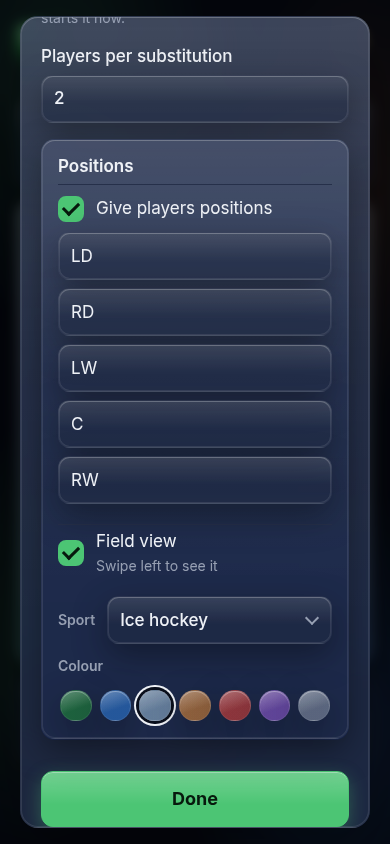
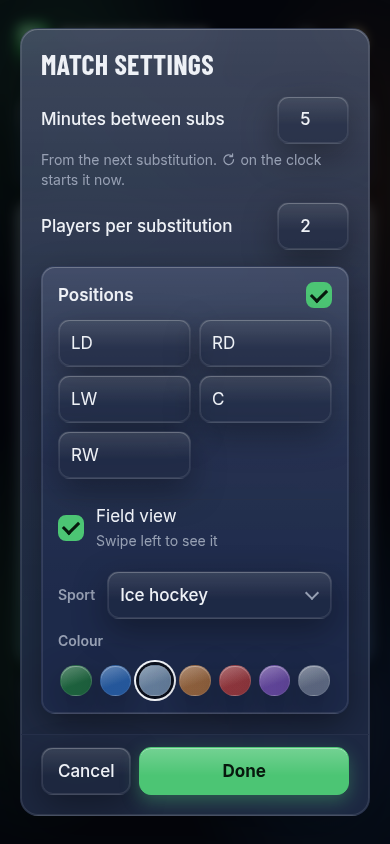
Shorter settings, no gap under the field, popups above the keyboard
- Android shrinks the page above the keyboard, so popups with a text box stay in view
- The swipe box only moves sideways (it could slide up and down, leaving a gap under the field)
- Match settings: number settings on one line, Positions box on its heading, position names two to a row when short, Cancel next to Done and always in view; Cancel undoes the changes
- Setup: same compact number rows, goalkeeper and starter names two to a row when short
- The clock's own restart icon in the note; shorter field view hint in setup

diff --git a/index.html b/index.html
@@ -2,7 +2,7 @@
 <html lang="en">
 <head>
   <meta charset="utf-8">
-  <meta name="viewport" content="width=device-width, initial-scale=1, viewport-fit=cover">
+  <meta name="viewport" content="width=device-width, initial-scale=1, viewport-fit=cover, interactive-widget=resizes-content">
   <meta name="theme-color" content="#f1eee8">
   <title>Substitutor – fair substitutions in kids’ sports</title>
   <meta name="description" content="Free app for coaches: a countdown to the next substitution, who goes off and who comes on, positions and a field view, so every kid gets fair playing time. Football, bandy, handball, ice hockey, floorball and futsal. Works offline on any phone.">
@@ -52,11 +52,13 @@
         const w = vv ? vv.width * vv.scale : innerWidth; // the window's real size, whatever the page's width
         const h = vv ? vv.height * vv.scale : innerHeight;
         const scale = Math.min(w, h) >= 700 ? Math.min(1.15, h / 844) : 1;
-        const content = scale > 1.01 ? `width=${Math.round(w / scale)}, viewport-fit=cover` : 'width=device-width, initial-scale=1, viewport-fit=cover';
+        // resizes-content: on Android the page shrinks above the keyboard, so popups stay in view
+        const content = (scale > 1.01 ? `width=${Math.round(w / scale)}, viewport-fit=cover` : 'width=device-width, initial-scale=1, viewport-fit=cover') + ', interactive-widget=resizes-content';
         if (meta.content !== content) meta.content = content;
       };
       fit();
-      addEventListener('resize', fit); // turning the tablet, or split screen
+      // turning the tablet, or split screen; not while typing, or the keyboard would change the size
+      addEventListener('resize', () => { if (!document.activeElement?.matches('input, textarea')) fit(); });
     })();
   </script>
   <script type="module" src="./js/app.js"></script>
@@ -108,7 +110,7 @@
     <!-- Screen 2: match setup -->
     <section id="screen-setup" class="screen" hidden>
       <h2 data-t>Match setup</h2>
-      <label class="field"><span data-t>Players on the field (including goalkeeper)</span>
+      <label class="field inline"><span data-t>Players on the field (including goalkeeper)</span>
         <input id="field-size" type="number" min="2" max="11" inputmode="numeric">
       </label>
       <fieldset>
@@ -121,20 +123,17 @@
       </fieldset>
       <p id="starter-note" class="note small" hidden></p>
       <fieldset>
-        <legend data-t>Positions</legend>
-        <div class="choices">
-          <label><input id="use-positions" type="checkbox"> <span data-t>Give players positions</span></label>
-        </div>
+        <legend class="choices toggle"><label><span data-t>Positions</span><input id="use-positions" type="checkbox" aria-label="Give players positions" data-t-label></label></legend>
         <div id="position-list" class="positions"></div>
         <div id="field-view-option" class="choices" hidden>
-          <label><input id="use-field-view" type="checkbox"> <span><span data-t>Field view</span><span class="sub" data-t>Swipe left during the match to see it</span></span></label>
+          <label><input id="use-field-view" type="checkbox"> <span><span data-t>Field view</span><span class="sub" data-t>Swipe left</span></span></label>
         </div>
         <div id="field-style" class="field-style" hidden></div>
       </fieldset>
-      <label class="field"><span data-t>Minutes between substitutions</span>
+      <label class="field inline"><span data-t>Minutes between substitutions</span>
         <input id="interval" type="number" min="1" max="60" step="0.5" inputmode="decimal">
       </label>
-      <label class="field"><span data-t>Players per substitution</span>
+      <label class="field inline"><span data-t>Players per substitution</span>
         <input id="per-sub" type="number" min="1" inputmode="numeric">
       </label>
       <p id="setup-error" class="error"></p>
@@ -242,26 +241,28 @@
 
   <!-- Match settings: the cog on the match screen. Changes apply at once. -->
   <dialog id="settings-dialog">
+    <div class="dialog-body"><!-- scrolls; the buttons below stay in view -->
     <h2 tabindex="-1" autofocus data-t>Match settings</h2><!-- focus here, so the keyboard doesn't pop up -->
-    <label class="field"><span data-t>Minutes between substitutions</span>
+    <label class="field inline"><span data-t>Minutes between subs</span>
       <input id="set-interval" type="number" min="1" max="60" step="0.5" inputmode="decimal">
+      <span class="sub" data-t data-restart-icon>From the next substitution. ↻ on the clock starts it now.</span>
     </label>
-    <p class="muted small set-note" data-t>From the next substitution. ↻ on the clock starts it now.</p>
-    <label class="field"><span data-t>Players per substitution</span>
+    <label class="field inline"><span data-t>Players per substitution</span>
       <input id="set-per-sub" type="number" min="1" inputmode="numeric">
     </label>
     <fieldset>
-      <legend data-t>Positions</legend>
-      <div class="choices">
-        <label><input id="set-use-positions" type="checkbox"> <span data-t>Give players positions</span></label>
-      </div>
+      <legend class="choices toggle"><label><span data-t>Positions</span><input id="set-use-positions" type="checkbox" aria-label="Give players positions" data-t-label></label></legend>
       <div id="set-position-list" class="positions"></div>
       <div id="set-field-view-option" class="choices" hidden>
         <label><input id="set-field-view" type="checkbox"> <span><span data-t>Field view</span><span class="sub" data-t>Swipe left to see it</span></span></label>
       </div>
       <div id="set-field-style" class="field-style" hidden></div>
     </fieldset>
-    <button id="settings-done" type="button" class="primary big" data-t>Done</button>
+    </div>
+    <div class="row dialog-buttons">
+      <button id="settings-cancel" type="button" data-t>Cancel</button>
+      <button id="settings-done" type="button" class="primary grow" data-t>Done</button>
+    </div>
   </dialog>
 
   <!-- Pick a player for a swap -->

diff --git a/js/app.js b/js/app.js
@@ -156,6 +156,9 @@ function setupError() {
   return '';
 }
 
+// Lists of names go two to a row only while every name is short, so long names stay on one line.
+const allShort = (names) => names.every((n) => (n ?? '').trim().length <= 12);
+
 function renderSetup() {
   const s = team.settings;
   const ids = new Set(team.players.map((p) => p.id));
@@ -166,6 +169,8 @@ function renderSetup() {
   $('interval').value = s.intervalMin ?? '';
   $('per-sub').value = s.perSub ?? '';
 
+  $('gk-list').classList.toggle('two-col', allShort(team.players.map((p) => p.name)));
+  $('starter-list').classList.toggle('two-col', allShort(team.players.map((p) => p.name)));
   $('gk-list').replaceChildren(
     ...team.players.map((p) =>
       el('label', {}, [
@@ -539,6 +544,7 @@ function fitPages() {
   const i = Math.round(pages.scrollLeft / pages.clientWidth);
   $('page-dots').querySelectorAll('button').forEach((b, j) => b.classList.toggle('active', i === j));
   pages.style.height = i === 1 ? `${$('field-page').offsetHeight}px` : '';
+  pages.scrollTop = 0; // never slid up or down inside (that left an empty gap under the field)
 }
 $('match-pages').addEventListener('scroll', fitPages);
 new ResizeObserver(fitPages).observe($('field-page'));
@@ -556,7 +562,10 @@ $('page-dots').addEventListener('click', (e) => {
 // players on the field isn't here (that means taking someone off or putting
 // someone on), nor the goalkeeper (tap a player and choose "Make goalkeeper").
 
+let settingsBefore = null; // copies from when the popup opened, for Cancel
+
 function openSettings() {
+  settingsBefore = { team: structuredClone(team), match: structuredClone(match) };
   const s = match.settings;
   $('set-interval').value = s.intervalMs / 60000;
   $('set-per-sub').value = s.perSub;
@@ -571,6 +580,7 @@ function renderSettingsPositions() {
   $('set-field-view').checked = !!team.settings.fieldView;
   $('set-field-view-option').hidden = !names;
   renderFieldStyle();
+  $('set-position-list').classList.toggle('two-col', allShort(names ?? []));
   $('set-position-list').replaceChildren(
     ...(names ?? []).map((name, i) =>
       el('input', {
@@ -592,6 +602,15 @@ function renderSettingsPositions() {
 
 $('settings-btn').addEventListener('click', () => match && openSettings());
 $('settings-done').addEventListener('click', () => $('settings-dialog').close());
+// Cancel puts everything back as it was when the popup opened. (The back button keeps the changes, as before.)
+$('settings-cancel').addEventListener('click', () => {
+  ({ team, match } = settingsBefore);
+  saveTeam(team);
+  saveMatch(match);
+  renderFieldStyle();
+  renderMatch();
+  $('settings-dialog').close();
+});
 $('set-interval').addEventListener('input', (e) => {
   const min = parseFloat(e.target.value);
   if (!(min >= 0.5 && min <= 60)) return; // half-typed: wait for a real number
@@ -1053,6 +1072,13 @@ setupInstall();
 // Language: the page's own text, and a round flag in the top bar showing the
 // current language. Tapping it switches to the other one.
 translatePage();
+// The ↻ in a note: the same icon as the clock's button, not the font's arrow
+for (const note of document.querySelectorAll('[data-restart-icon]')) {
+  const [before, after] = note.textContent.split('↻');
+  const icon = $('restart-countdown').querySelector('svg').cloneNode(true);
+  icon.classList.add('inline-icon');
+  note.replaceChildren(before, icon, after);
+}
 {
   const other = lang === 'no' ? 'en' : 'no';
   $('lang-toggle').innerHTML = `<span class="flag">${FLAGS[lang]}</span>`;

diff --git a/style.css b/style.css
@@ -196,8 +196,9 @@ body:has(#screen-match:not([hidden])) .theme-label { display: none; }
 .topbar .theme-icon { font-size: 21px; line-height: 1; }
 /* The theme button is plain and grey, like the cog: no background. */
 .topbar button.theme.theme { background: transparent; border-color: transparent; box-shadow: none; color: var(--muted); padding: 0 6px; }
-#settings-dialog .set-note { margin: -6px 0 14px; }
-#set-position-list { display: flex; flex-direction: column; gap: 8px; margin-bottom: 8px; }
+/* The position names two to a row, to keep the popup short */
+#set-position-list { display: grid; gap: 8px; margin-bottom: 8px; }
+#set-position-list.two-col { grid-template-columns: 1fr 1fr; }
 .topbar button.theme {
   display: flex;
   align-items: center;
@@ -316,6 +317,11 @@ input, select { width: 100%; padding: 0 12px; }
 /* Setup form */
 label.field { display: block; margin: 16px 0; font-weight: 500; }
 label.field input { margin-top: 6px; }
+/* A number: the words on the left, a short box on the right */
+label.field.inline { display: grid; grid-template-columns: 1fr 72px; align-items: center; gap: 12px; margin: 12px 0; }
+label.field.inline input { margin: 0; text-align: center; }
+.inline-icon { width: 1.1em; height: 1.1em; vertical-align: -0.2em; fill: none; stroke: currentColor; stroke-width: 2; stroke-linecap: round; stroke-linejoin: round; }
+label.field .sub { grid-column: 1 / -1; margin-top: -6px; color: var(--muted); font-size: 14px; font-weight: 400; } /* a note under the whole line */
 fieldset {
   min-width: 0;
   margin: 16px 0;
@@ -328,6 +334,11 @@ fieldset {
 /* The heading sits inside the box (float takes the legend off the border line). */
 legend { float: left; width: 100%; padding: 14px 0 6px; font-weight: 600; }
 legend + * { clear: both; }
+/* A heading with its on/off box on the right (Positions) */
+legend.toggle { padding: 4px 0 0; }
+legend.toggle label { justify-content: space-between; border-top: 0; }
+/* Short lists of names (goalkeeper, starters) two to a row */
+.choices.two-col { display: grid; grid-template-columns: 1fr 1fr; column-gap: 16px; }
 .choices label {
   display: flex;
   align-items: center;
@@ -431,6 +442,11 @@ dialog[open] { animation: pop-in 0.18s ease-out; }
 dialog::backdrop { background: var(--backdrop); backdrop-filter: blur(2px); }
 @keyframes pop-in { from { opacity: 0; transform: translateY(12px) scale(0.98); } }
 dialog h2 { margin-top: 0; }
+/* Match settings: the content scrolls, Cancel and Done stay at the bottom */
+#settings-dialog { padding: 0; }
+#settings-dialog[open] { display: flex; flex-direction: column; }
+#settings-dialog .dialog-body { flex: 1; min-height: 0; overflow-y: auto; padding: 20px 20px 4px; }
+#settings-dialog .dialog-buttons { margin: 0; padding: 12px 20px 20px; border-top: 1px solid var(--line); }
 
 .swap-row {
   display: grid;
@@ -576,6 +592,7 @@ h2 { font: 700 28px/1.1 "Barlow Condensed", system-ui, sans-serif; text-transfor
   align-items: flex-start;
   margin: 0 -16px;
   overflow-x: auto;
+  overflow-y: hidden; /* only sideways: the box is cut to the field's height, so it mustn't slide up and down inside */
   overscroll-behavior-x: contain;
   scroll-snap-type: x mandatory;
   scrollbar-width: none;

diff --git a/js/i18n.js b/js/i18n.js
@@ -47,9 +47,10 @@ export const NO = {
   Positions: 'Posisjoner',
   'Give players positions': 'Gi spillerne posisjoner',
   'Field view': 'Banevisning',
-  'Swipe left during the match to see it': 'Sveip til venstre under kampen for å se den',
+  'Swipe left': 'Sveip til venstre',
   'Swipe left to see it': 'Sveip til venstre for å se den',
   'Minutes between substitutions': 'Minutter mellom bytter',
+  'Minutes between subs': 'Minutter mellom bytter',
   'Players per substitution': 'Spillere per bytte',
   Back: 'Tilbake',
   'Start match': 'Start kampen',

diff --git a/PLAN.md b/PLAN.md
@@ -76,3 +76,6 @@ All confirmed by the user. For how each one works in the code, see [CLAUDE.md](C
 - **Tablets** (2026-10-14): upright, one wide column a little bigger than on a phone (at most 15%, never fewer rows than a phone); sideways, the match list and the field side by side, the field a bit wider and without its bench; only the player list scrolls, under a compact one-row clock (with ↻) and its buttons, which stay put. Same for Android tablets and wide computer windows.
 - **No visitor statistics** (2026-10-14): the owner chose to skip them. Google Search Console (set up by the owner, with a DNS TXT record at Domeneshop) only covers Google searches.
 - **Domain:** substitutor.no, bought at Domeneshop, with ".no" after the name in the header like PrimeTime's ".re". Phones don't need their saved team moved to the new address. Live since 2026-10-14, with HTTPS.
+- **Popups above the keyboard** (2026-10-14): the page tells Android to shrink itself above the on-screen keyboard (`interactive-widget=resizes-content` in the viewport tag), so popups with a text box (renaming, team name) sit in the space above the keyboard instead of behind it. The tablet sizing ignores that shrinking while someone is typing.
+- **Shorter forms** (2026-10-14): number settings sit on one line (words left, a short box right); the Positions on/off box sits on the Positions heading; goalkeeper and starter names, and the cog popup's position names, two to a row while every name is 12 letters or fewer (otherwise one per row, so long names stay readable); the popup's label is "Minutes between subs" to fit one line, and its note uses the clock's own ↻ icon; in the cog popup and Cancel next to Done, both always in view. Cancel puts back everything changed since the popup opened; the phone's back button still keeps the changes. Match setup still scrolls with a full squad (owner: it's long anyway).
+- **No gap under the field** (2026-10-14): the swipe box could slide up and down inside itself, hiding the clock and leaving empty space under the field. It now only moves sideways.

diff --git a/CLAUDE.md b/CLAUDE.md
@@ -41,7 +41,7 @@ GitHub Pages serves `main` / root as-is, with no build step. `git push` redeploy
 
 | File | Purpose |
 |---|---|
-| `index.html` | A tiny inline script that applies the saved theme before the page draws, plus all three screens (`#screen-team`, `#screen-setup`, `#screen-match`) and seven `<dialog>`s: swap, player picker (used by the swap popup and setup), player actions, summary, `ask-dialog` (the app's own confirm/name popup, `ask()` in `app.js`), `settings-dialog` (match settings, the cog) and `ios-install-dialog` (install steps for iPhone/iPad). The match screen holds two swipeable pages: the list and the field view (`#field-page`) |
+| `index.html` | A tiny inline script that applies the saved theme before the page draws, plus all three screens (`#screen-team`, `#screen-setup`, `#screen-match`) and seven `<dialog>`s: swap, player picker (used by the swap popup and setup), player actions, summary, `ask-dialog` (the app's own confirm/name popup, `ask()` in `app.js`), `settings-dialog` (match settings, the cog; its content scrolls while Cancel and Done stay at the bottom, and Cancel restores copies of `team` and `match` taken when it opened) and `ios-install-dialog` (install steps for iPhone/iPad). The match screen holds two swipeable pages: the list and the field view (`#field-page`) |
 | `style.css` | All styles; colours are CSS variables (light and dark sets) |
 | `js/app.js` | UI, in sections: helpers (`el`, `ask`, `toast`), team screen (incl. renaming), match setup (incl. positions), match screen, field view, player options, swap popup, moving to another phone (`shareLink`, `loadShared`), theme, install card, and start-up. The 500 ms tick (`updateClock`) updates the clocks and opens the substitution popup |
 | `js/match.js` | Pure match logic: time accounting, ranking (rotation), swaps, positions (`assignSpots`, `fillSpots`, `swapPositions`) and the field view's layout (guessed from position names, or plain rows) |
